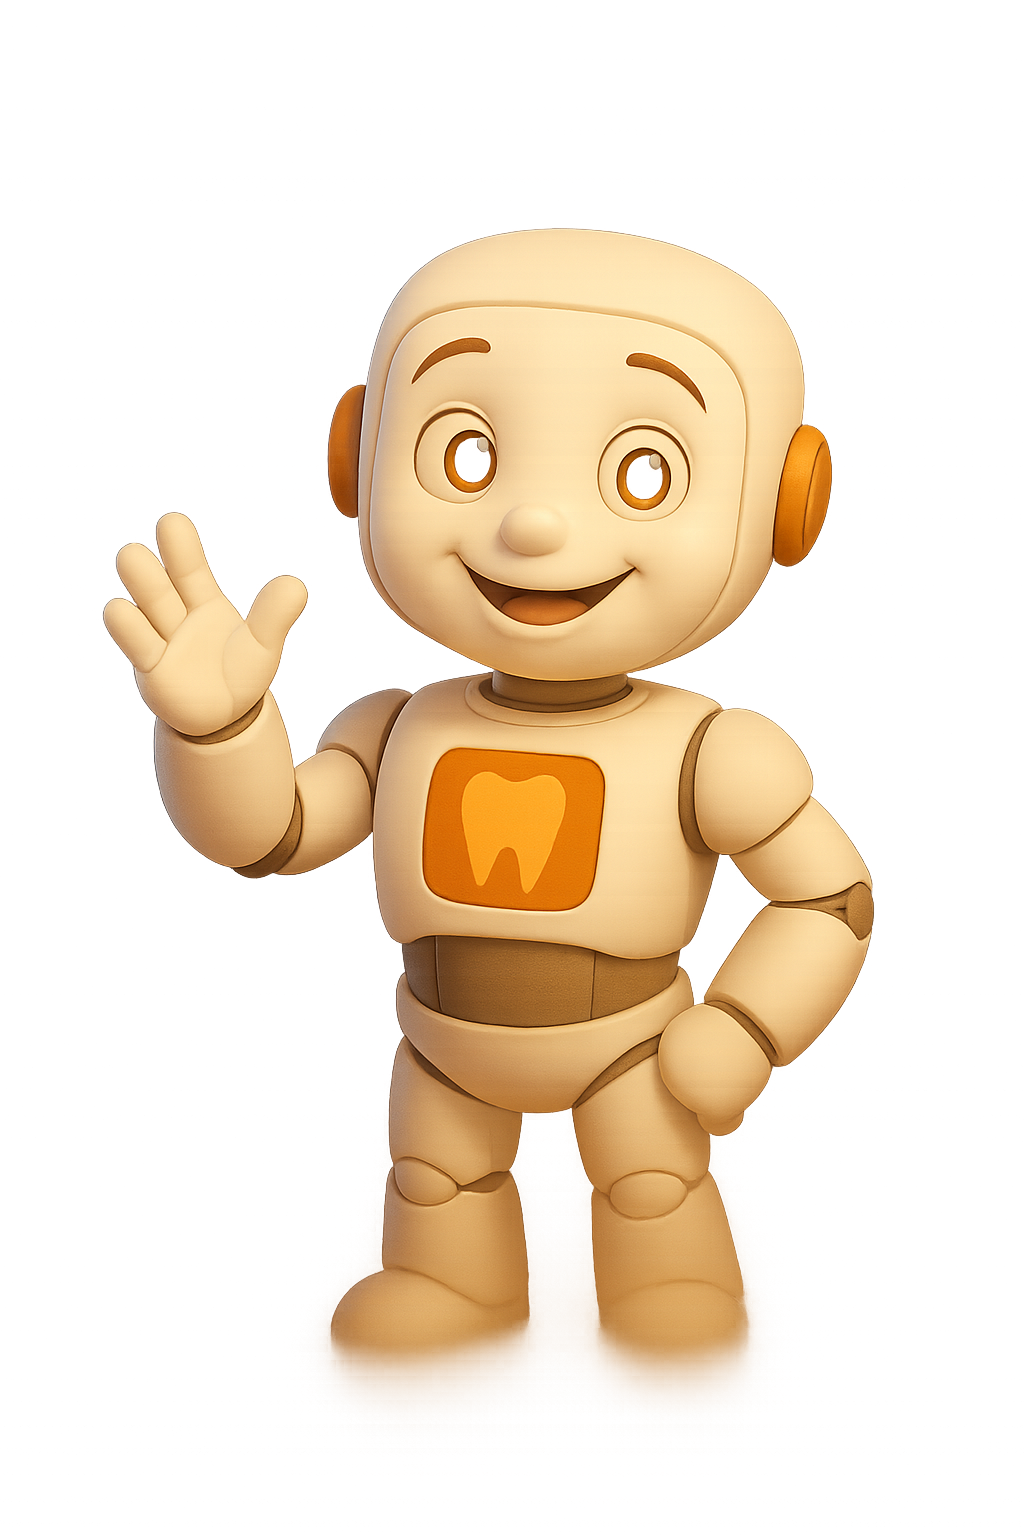
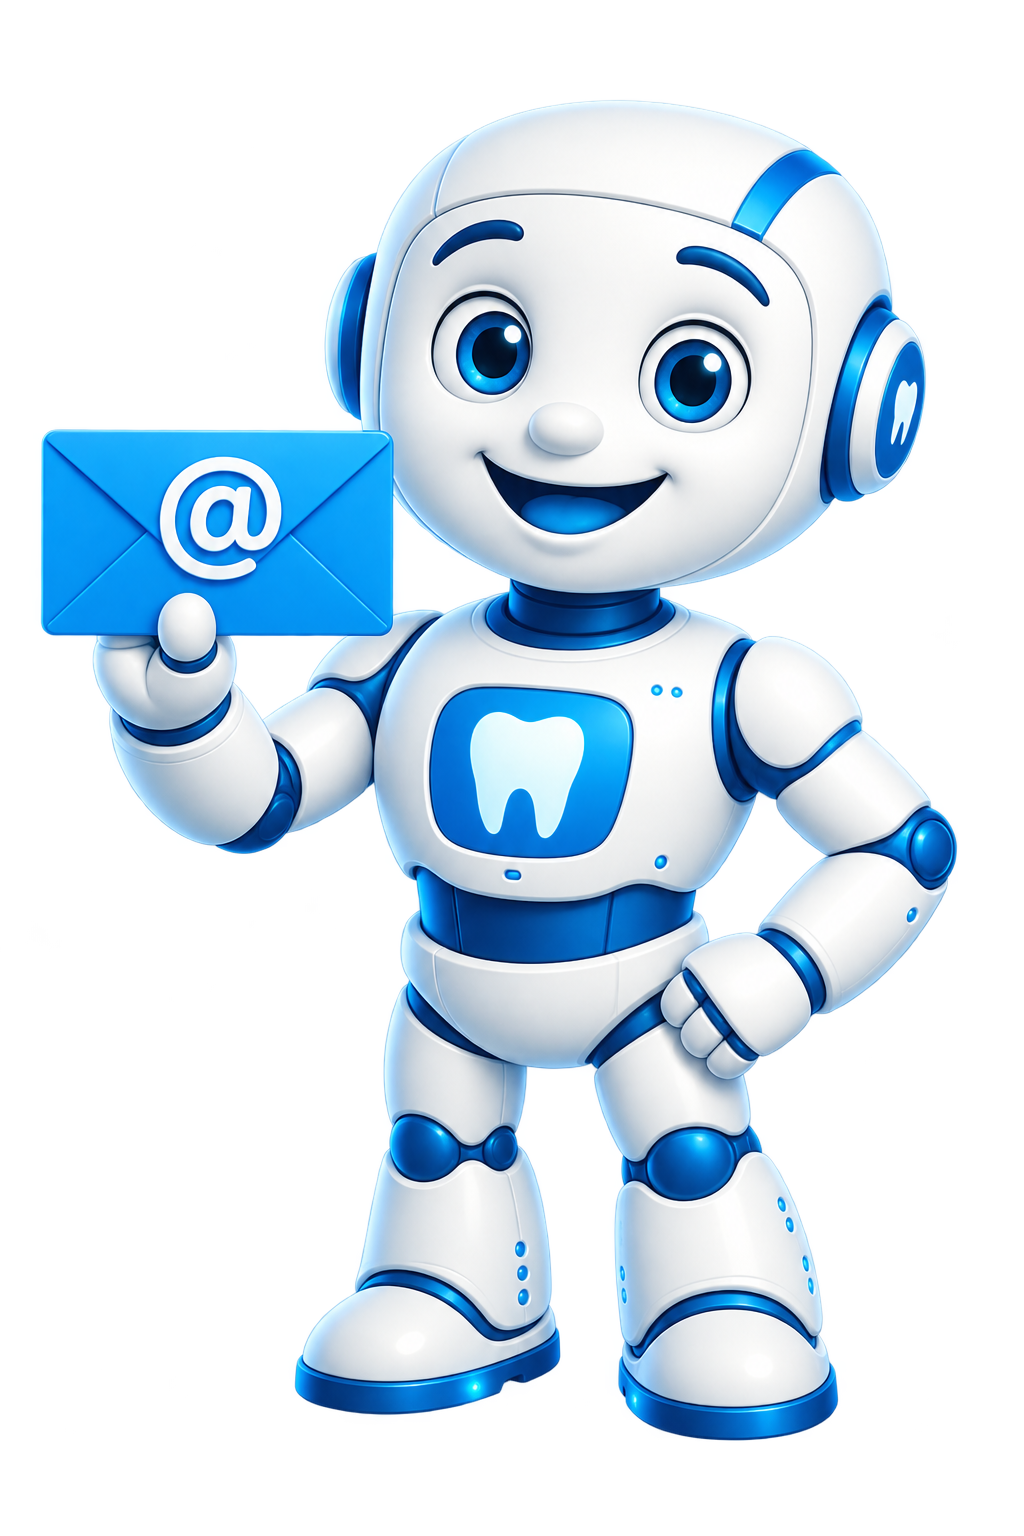
updated image

diff --git a/src/components/landing/CTA.tsx b/src/components/landing/CTA.tsx
@@ -64,7 +64,7 @@ function CTA() {
 
               <div className="relative rounded-3xl border border-primary/20 bg-card/40 p-4 shadow-xl overflow-hidden">
                 <Image
-                  src="/cta.png"
+                  src="/cta2.png"
                   alt="SmileSync AI Dental Care Platform"
                   width={320}
                   height={320}
